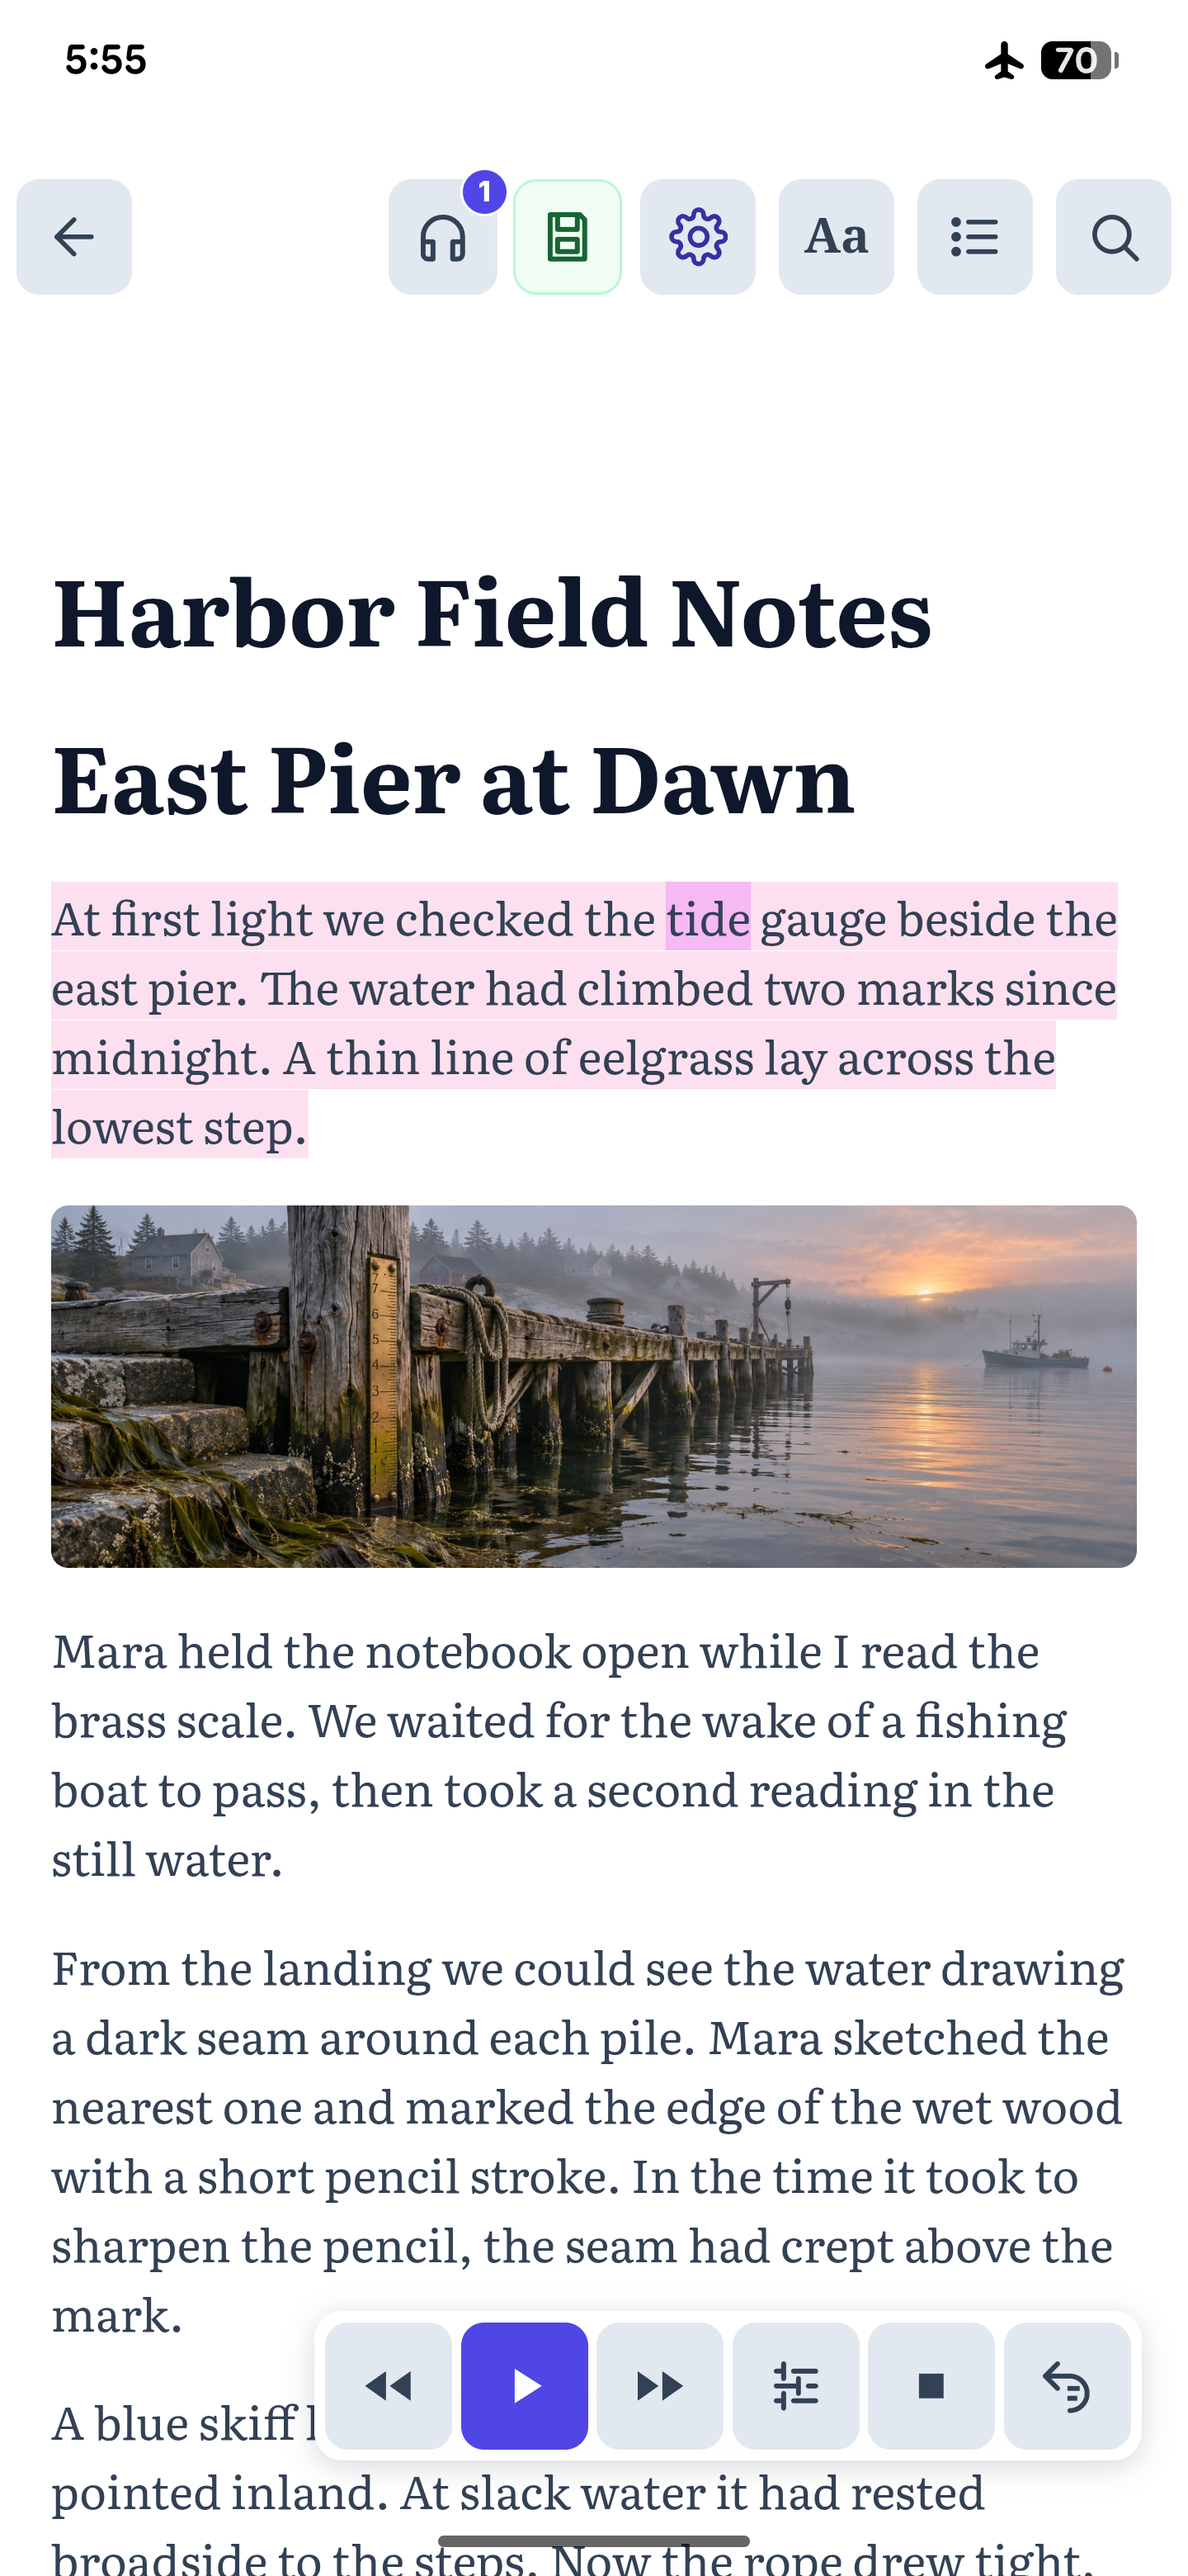
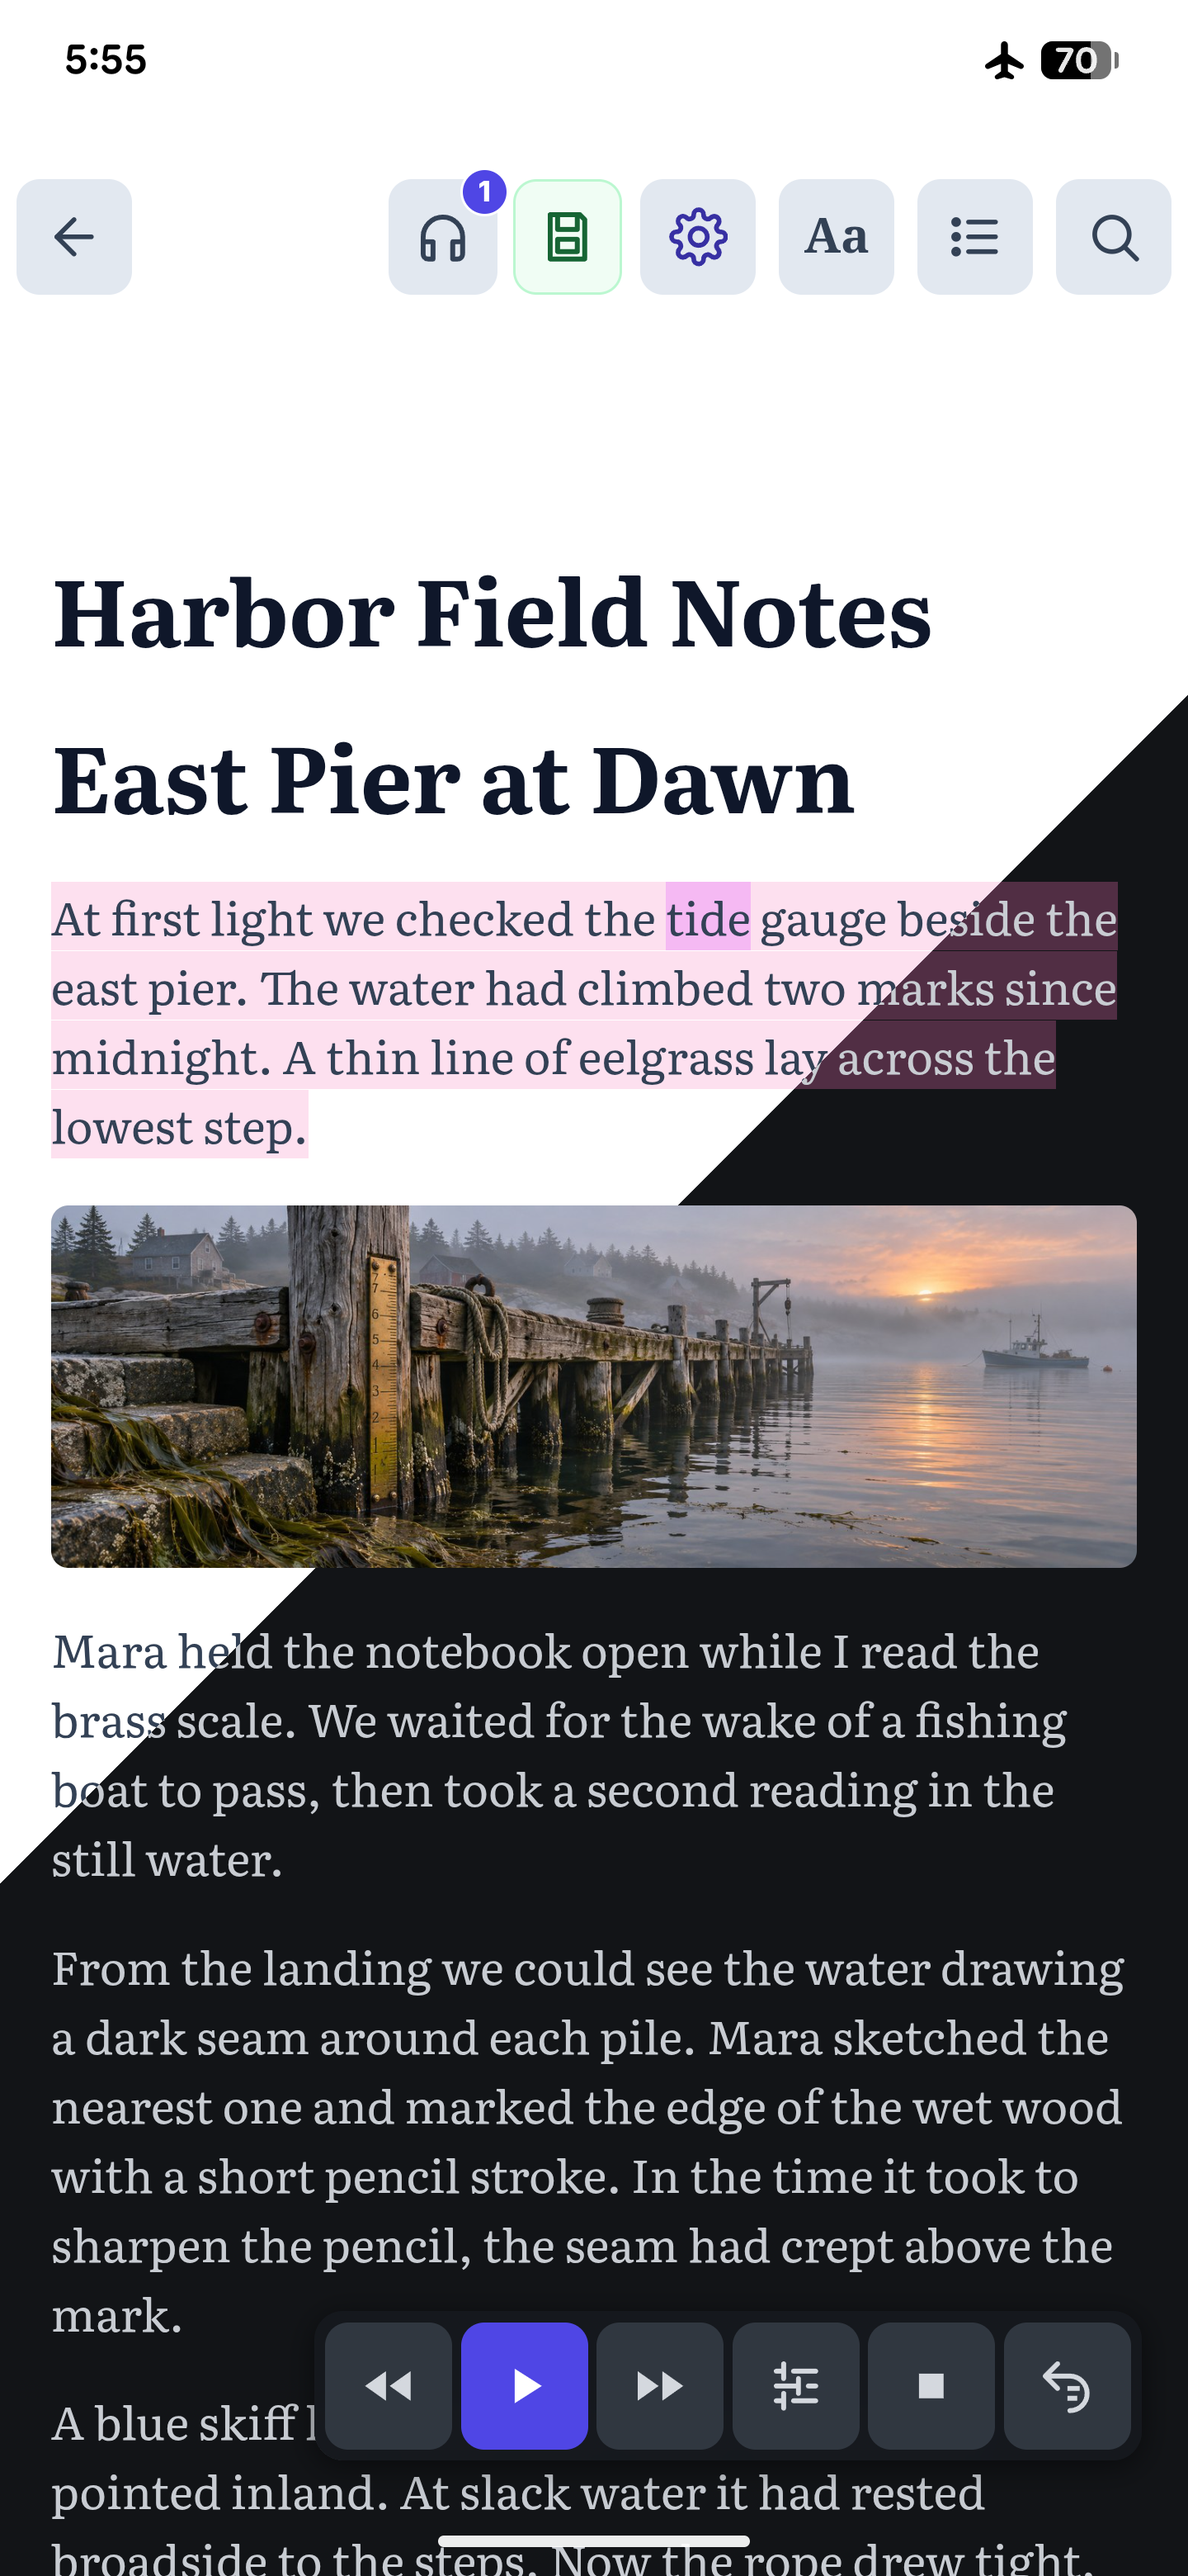
Show both themes in each F-Droid screenshot

diff --git a/docs/internationalization.md b/docs/internationalization.md
@@ -118,7 +118,7 @@ Keep full-resolution PNG masters. Use the AppImage for desktop website shots, an
 4. **Android Find and Read — complete.** The exact-phrase query “took a second reading in the still water.” matches the passage beneath the Literata settings panel.
 5. **Android hero and Listen — complete.** Both themes show the opening paragraph paused on “tide” with the player visible.
 6. **Android lock screen — complete.** The clock and media card share one crop across themes.
-7. **F-Droid — prepared.** The six original Android PNGs show Find, Listen and Read in light mode (1–3), then in dark mode (4–6). They are under `fastlane/metadata/android/en-US/images/phoneScreenshots/` in listing order. Include them in the release revision.
+7. **F-Droid — prepared.** The three Android PNGs show Find, Listen and Read. Each pairs the light theme in the upper left with the dark theme in the lower right along a diagonal. They are under `fastlane/metadata/android/en-US/images/phoneScreenshots/` in listing order. Include them in the release revision.
 8. **iOS App Store.** Run the iOS build on a supported iPhone or simulator at an accepted screenshot size. Repeat the Find → Read → Listen actions and **capture once per scene**, in one theme. Supply iPad captures as applicable to the submitted build. [Apple review guidelines §2.3](https://developer.apple.com/app-store/review/guidelines/#accurate-metadata) · [App Store Connect screenshot sizes](https://developer.apple.com/help/app-store-connect/reference/app-information/screenshot-specifications/)
 
 For website exports, use identical crop bounds for each light/dark pair and match the selected site theme. Keep captions in the website catalogs. When localizing the captures, prioritize an Arabic RTL reader shot.
